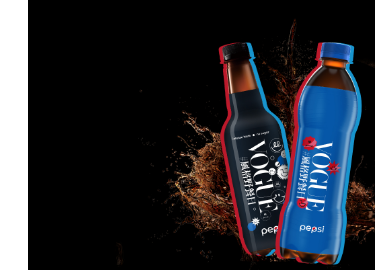
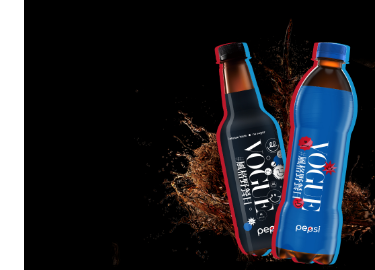
img test

diff --git a/src/index.html b/src/index.html
@@ -200,8 +200,15 @@
         <img src="./img/awards-1.svg" alt="獎品及人物圖片" class="absolute top-0 left-0 w-full mx-auto">
         <img src="./img/awards-2.png" alt="獎品及人物圖片" class="w-full mx-auto">
       </div>
+      <div class="relative" v-show="nowLoginWay === 'modernQRcode'">
+        <img src="./img/awards-1.svg" alt="獎品及人物圖片" class="absolute top-0 left-0 w-full mx-auto">
+        <img src="./img/awards-2-2x.png" alt="獎品及人物圖片" class="w-full mx-auto">
+      </div>
       <div class="relative" v-show="nowLoginWay === 'modernvehicle'">
         <img src="./img/bg-cola.png" alt="cola" class="w-full -mt-8">
+      </div>
+      <div class="relative" v-show="nowLoginWay === 'modernvehicle'">
+        <img src="./img/bg-cola-2x.png" alt="cola" class="w-full -mt-8">
       </div>
       <div class="modal duration-300" :class="{'opacity-0 invisible' : !modal,'opacity-1 visible' : modal}">
         <div class=" modal__main">
@@ -212,9 +219,6 @@
               </li>
               <li>
                 <p>請輸入手機號碼</p>
-              </li>
-              <li>
-                <p>請重新掃描 QRCode</p>
               </li>
             </ul>
           </div>
